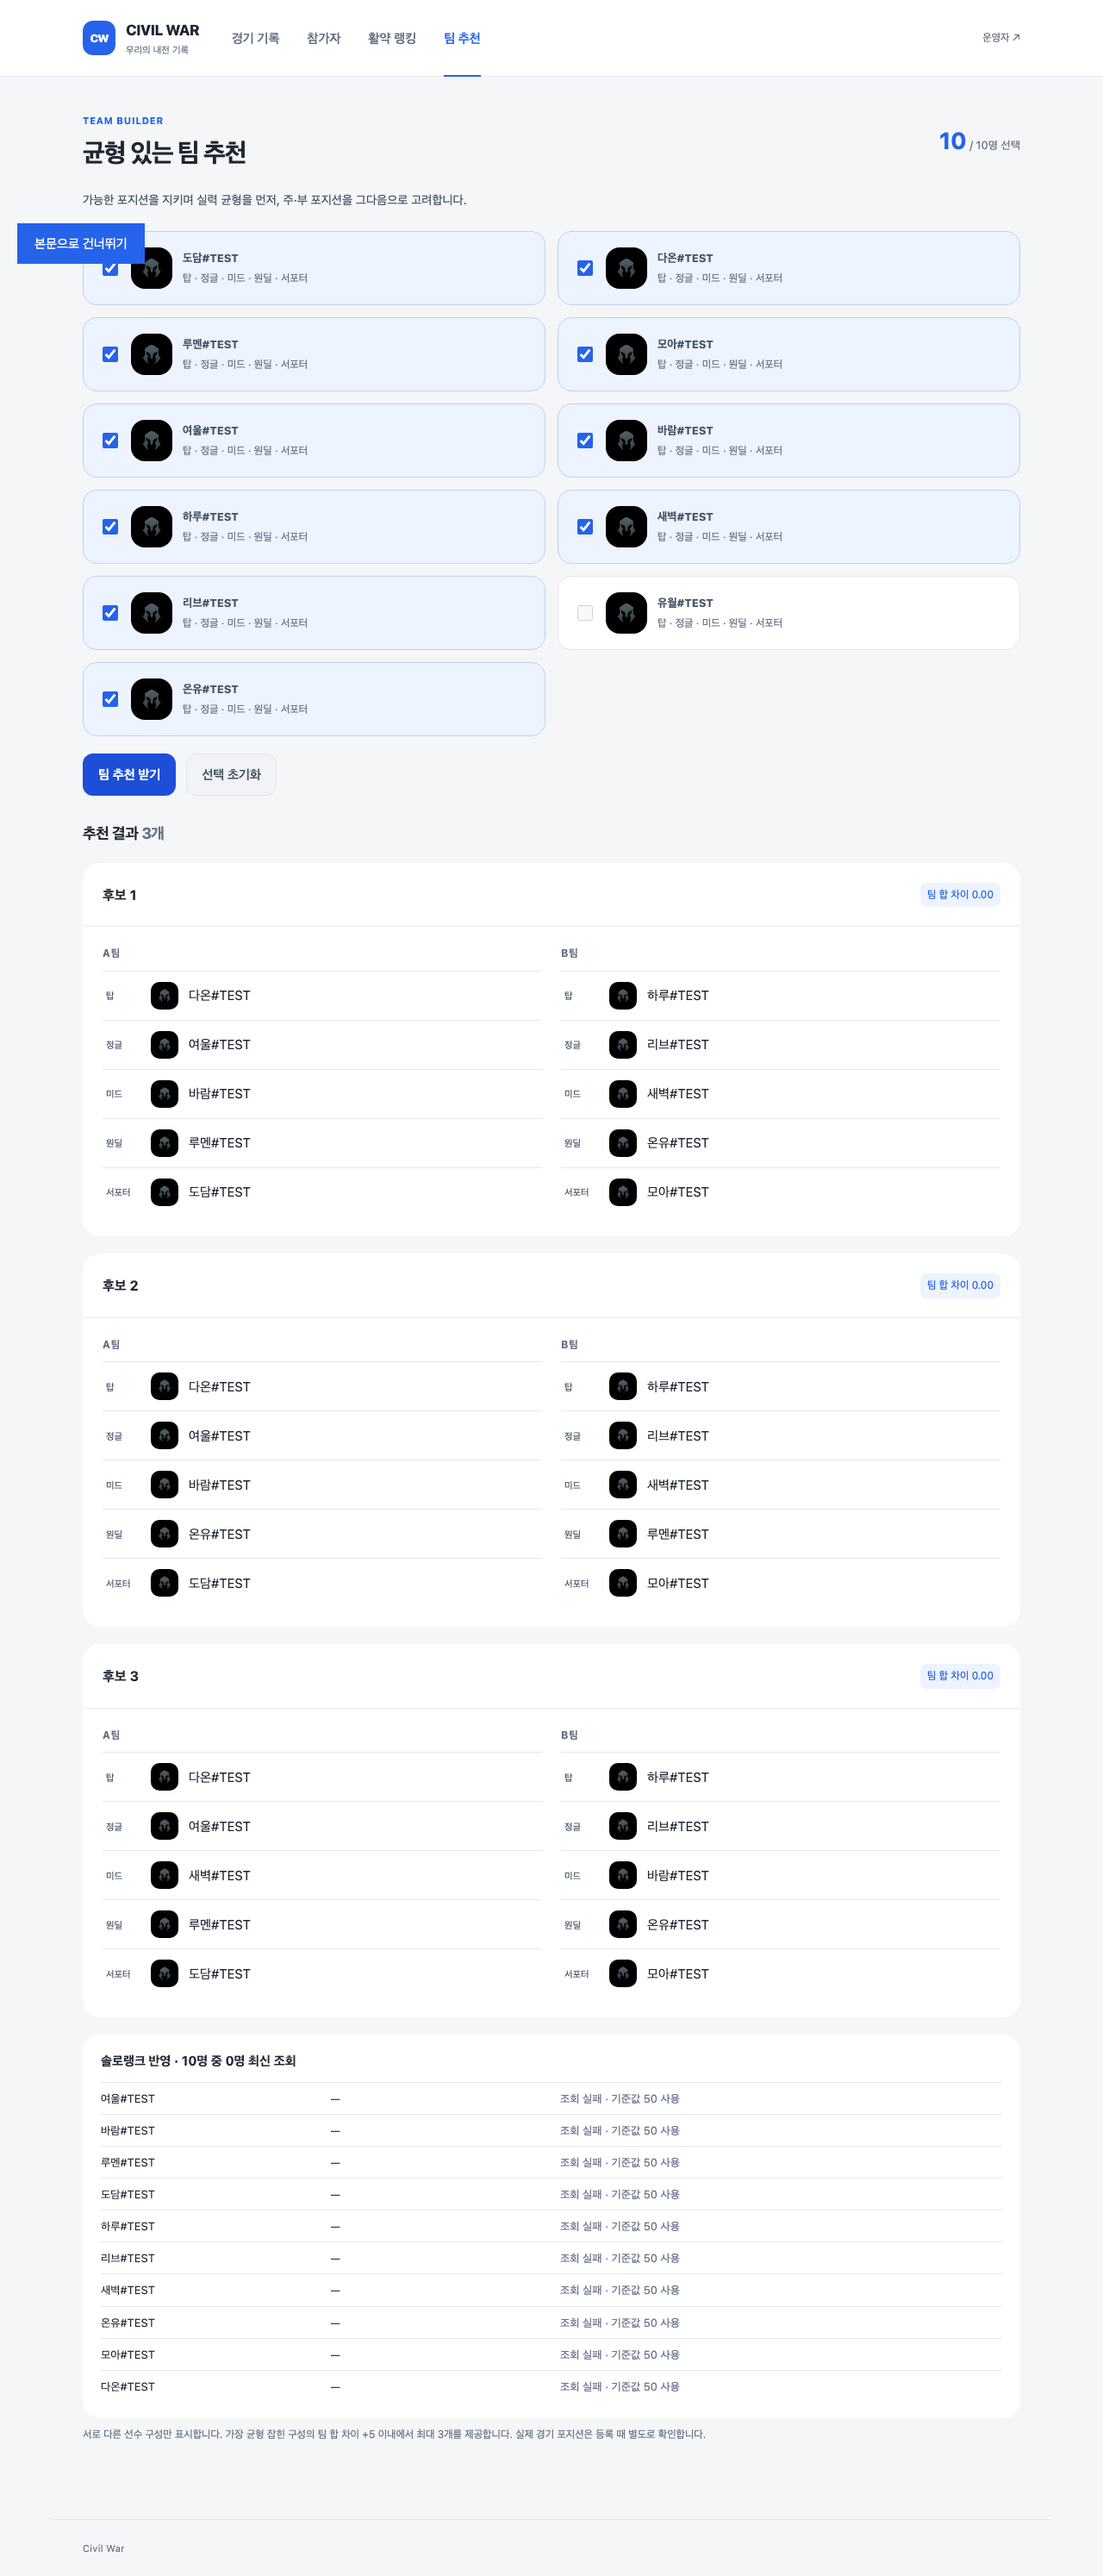
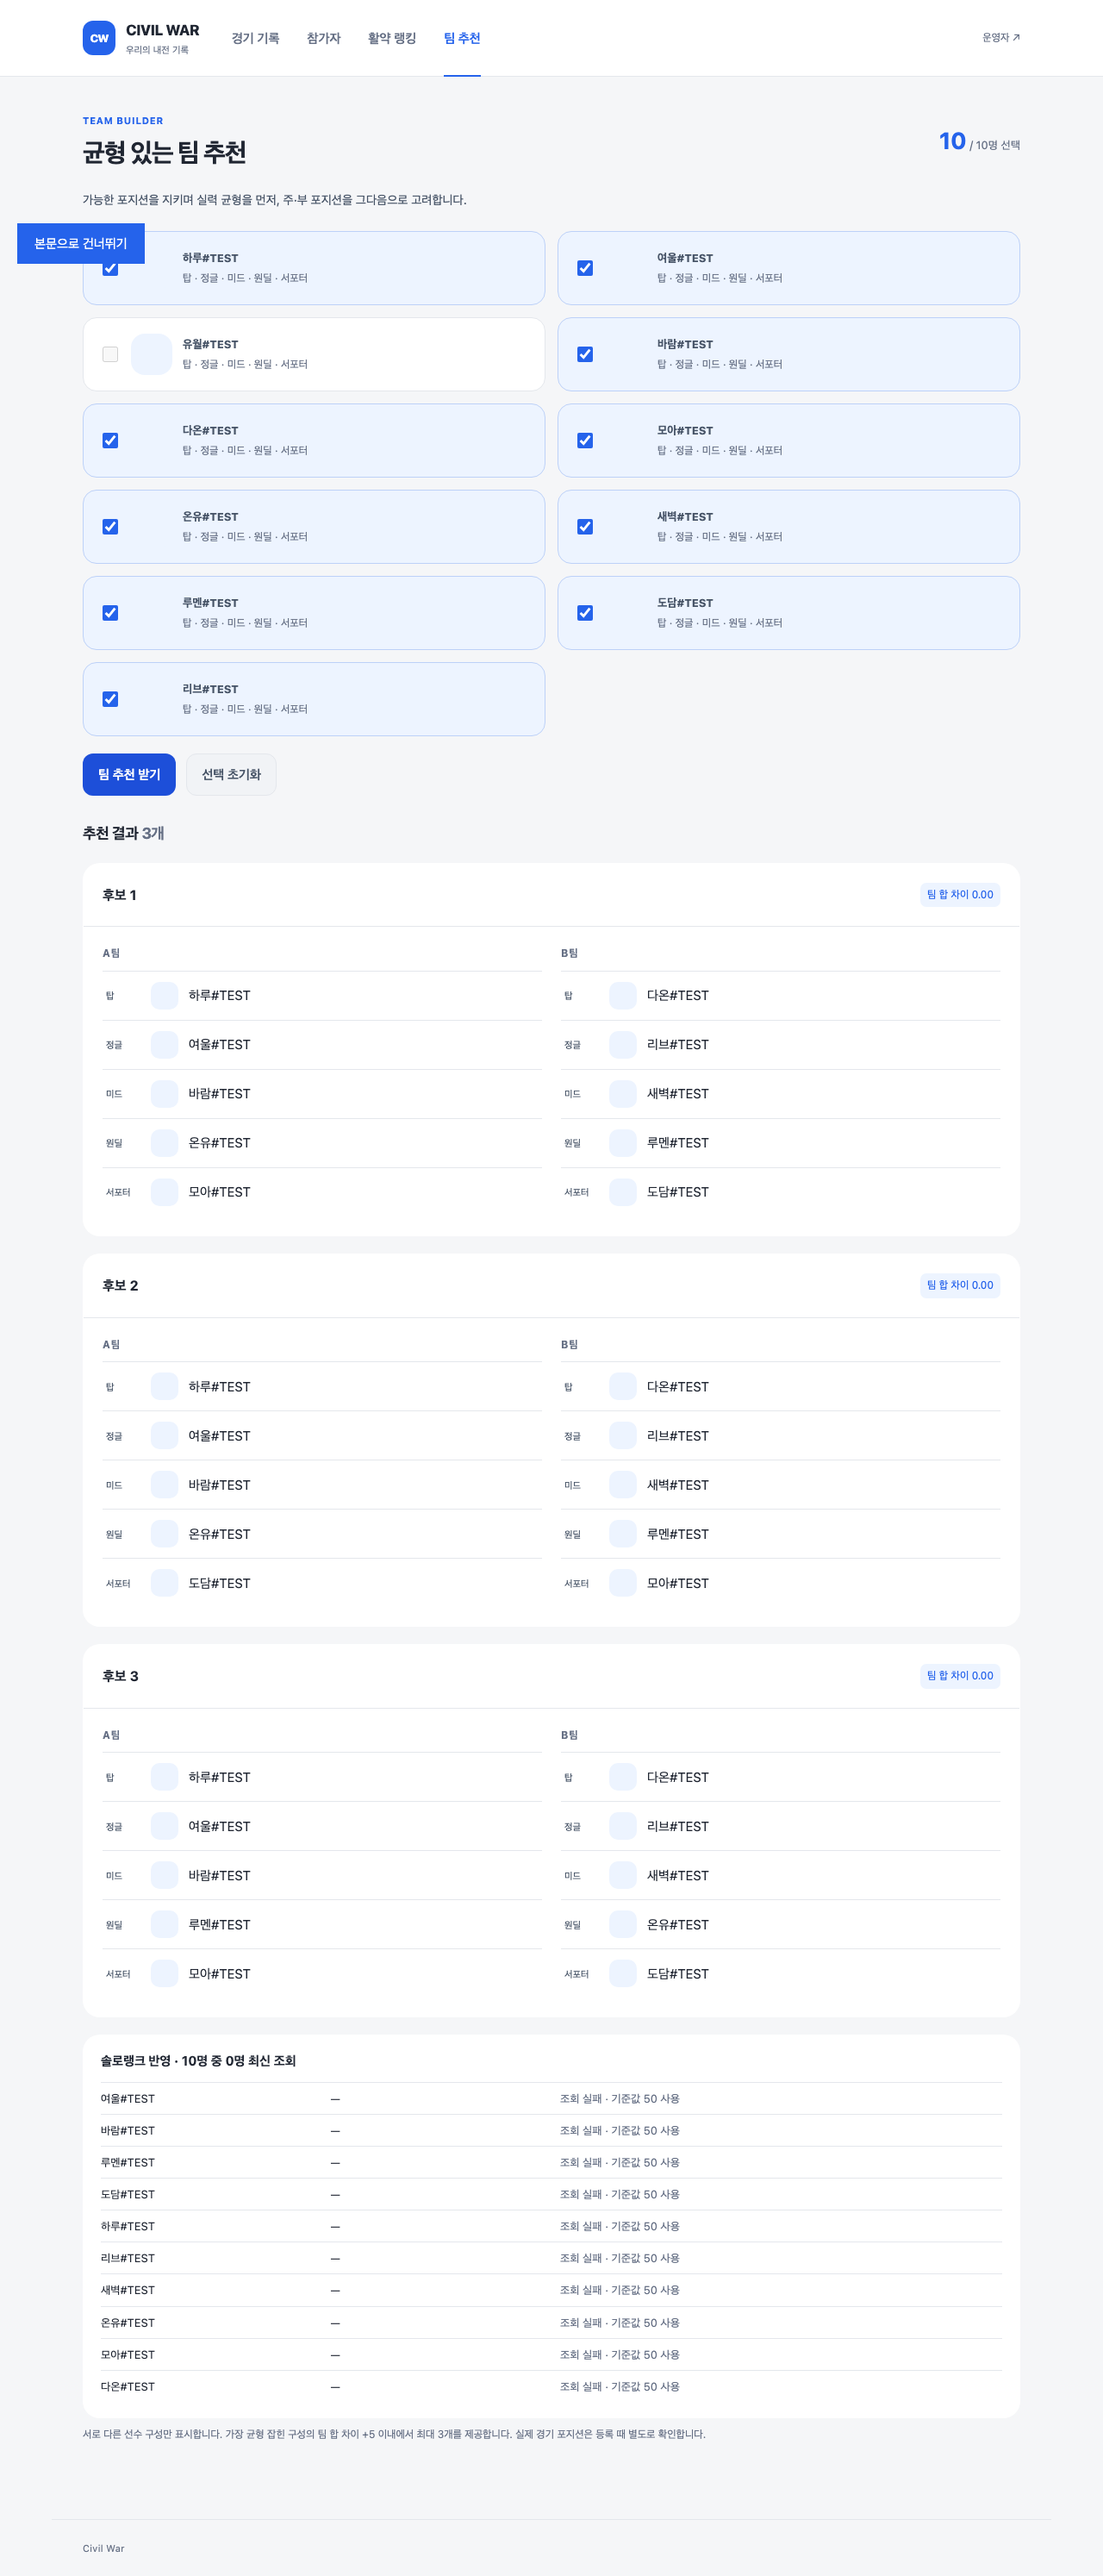
docs: 최종 검토에 따른 계약·결정 연결·검증 근거 수정

diff --git a/docs/contracts/api.md b/docs/contracts/api.md
@@ -204,7 +204,7 @@ PublicMatch에는 `matchKey`, `startedAtUtc`, `durationSeconds`, `mapId`, `patch
 | `POST /api/teams/recommend` | [TeamInput](stage3.schema.json#/$defs/TeamInput) `{memberIds:string[10]}` → `{candidates:[{teamA:[{memberId,role}],teamB:[{memberId,role}],skillDifference}],reason:null|string,sourceRevision,rankLookups:RankLookup[10]}` |
 | `GET /api/scoring-versions/:id` | 공개 점수에 쓴 변경 불가능한 전체 [ScoringRuleSet](stage3.schema.json#/$defs/ScoringRuleSet). 알 수 없는 버전은 404 |
 
-팀 추천은 응답 전에 선택한 10명의 솔로랭크를 조회한다. [RankLookup](stage3.schema.json#/$defs/RankLookup)은 `{memberId,source,status,teamSeed,tier,division,observedAt}`이다. `source`는 이번 계산에 쓴 값의 출처로 `live`(이번 조회 성공), `saved`(이번 조회 실패, 마지막 성공값), `default`(성공한 적 없음, 공통 시작값)다. `status`는 이번 조회 결과로 `ranked`·`unranked`·`unavailable`·`not_found`·`conflict`·`timeout`(대기 상한 초과) 중 하나다. 상한을 넘긴 조회는 저장하지 않는다. 조회 일부가 실패해도 추천은 200으로 응답한다.
+팀 추천은 응답 전에 선택한 10명의 솔로랭크를 조회한다. [RankLookup](stage3.schema.json#/$defs/RankLookup)은 `{memberId,source,status,teamSeed,tier,division,observedAt}`이다. `source`는 이번 계산에 쓴 값의 출처로 `live`(이번 조회 성공), `saved`(이번 조회 실패, 마지막 성공값), `default`(성공한 적 없음, 공통 시작값)다. `status`는 이번 조회 결과로 `ranked`·`unranked`·`unavailable`·`not_found`·`conflict`·`timeout`(대기 상한 초과) 중 하나다. 상한 안에 끝난 조회만 응답 전에 한 트랜잭션으로 저장하고, 상한을 넘긴 조회는 저장하지 않는다. 포지션별 실력은 저장하지 않고 요청마다 계산한다. 조회 일부가 실패해도 추천은 200으로 응답한다.
 
 현재 세대가 없으면 순위·회원 통계·팀 추천은 202 `RECALCULATING`을 반환한다. 이때 팀 추천은 Riot 조회를 하지 않는다. 이는 경기 기록을 200으로 읽는 동작과 구분한다.
 
@@ -233,7 +233,7 @@ ScoringRuleSet의 필드·숫자 상수는 [현재 스키마](stage3.schema.json
 
 공개 계산 조회는 `REPEATABLE READ`(읽기 트랜잭션 동안 같은 데이터 상태를 보는 격리 수준)로 서비스 상태를 읽고 revision·scoringVersion이 모두 같은 세대만 허용한다. 이미 시작된 조회는 일관된 이전 스냅샷(그 시점의 데이터 묶음)을 볼 수 있고, 변경 커밋 뒤 시작한 조회는 무효화를 본다.
 
-작업자는 PostgreSQL의 세션 단위 협력 잠금 `731954801`을 점유 → 스냅샷 → 계산 → 게시 전체 동안 유지한다. 입력 스냅샷도 REPEATABLE READ로 읽고 실제 계산은 그 트랜잭션 밖에서 한다. 최종 게시 트랜잭션은 서비스 상태를 잠근 뒤 revision·desired 버전·running 상태·정확한 attempts(점유 시도 번호)를 확인한다. 일치할 때만 모든 gameScores·memberStats·roleSkills를 함께 저장하고 활성 포인터를 바꾼다. 오래된 입력은 게시하지 않고 stale로 처리한다.
+작업자는 PostgreSQL의 세션 단위 협력 잠금 `731954801`을 점유 → 스냅샷 → 계산 → 게시 전체 동안 유지한다. 입력 스냅샷도 REPEATABLE READ로 읽고 실제 계산은 그 트랜잭션 밖에서 한다. 최종 게시 트랜잭션은 서비스 상태를 잠근 뒤 revision·desired 버전·running 상태·정확한 attempts(점유 시도 번호)를 확인한다. 일치할 때만 모든 gameScores·memberStats를 함께 저장하고 활성 포인터를 바꾼다. 오래된 입력은 게시하지 않고 stale로 처리한다.
 
 복구는 attempts를 올려 이전 작업자의 게시·실패 보고가 새 작업을 덮어쓰지 못하게 한다. 중단된 running 작업은 협력 잠금을 얻은 뒤 복구한다. 실패 작업은 웹 프로세스 재시작 또는 명시적인 retry로 재처리한다. 웹 기능을 끈 유지보수 프로세스는 스케줄러나 작업 복구를 시작하지 않는다. 제거한 `admin:code` 명령은 서버·DB를 시작하기 전에 실패한다. 상세 근거는 [작업 점유·실패 처리](../../apps/server/src/main/java/cw/evaluation/EvaluationRepository.java), [게시 검사](../../apps/server/src/main/java/cw/evaluation/GenerationPublisher.java)에 있다.
 

diff --git a/docs/validation/2026-11-25-team-live-solo-rank-report.md b/docs/validation/2026-11-25-team-live-solo-rank-report.md
@@ -17,6 +17,7 @@
 | 등급 조회 시점 | 서버가 1초마다 한 명씩 조회. 성공 후 24시간, 실패 후 5분 동안 재조회하지 않음 | 팀 추천 요청 때 선택한 10명을 동시에 조회 |
 | Riot 요청 | 서버 전체에서 한 번에 하나씩, 요청당 5초 제한 | 서버 전체 동시 10개까지, 요청당 4초 제한 |
 | 늦은 조회 | 해당 없음 | 4초 상한이 지나면 취소하고 저장하지 않음. 마지막 성공값 또는 50을 쓰고 `timeout`으로 표시 |
+| 조회 결과 저장 | 사람마다 각자 전역 잠금을 잡고 저장 | 작업 스레드는 Riot만 호출하고, 상한 안에 끝난 결과를 요청 스레드가 한 트랜잭션·한 번의 잠금으로 저장 |
 | 포지션별 실력 계산 | 재계산 때 저장된 등급으로 미리 계산 | 추천 요청 때 이번 조회 결과로 계산 |
 | 등급 변화 | 재계산 번호를 올려 공개 평가 전체를 다시 계산 | 재계산하지 않음. 감사 기록만 남김 |
 | 추천 응답·화면 | 후보만 표시 | 사람별 반영 상태(`rankLookups`)와 "솔로랭크 반영" 목록 표시 |
@@ -30,10 +31,10 @@ macOS arm64, OpenJDK 25.0.1(Gradle 도구 체인과 웹 시험의 `JAVA_HOME`), 
 
 | 환경·검사 | 결과 |
 | --- | --- |
-| `./apps/server/gradlew -p apps/server clean build` | 통과. JUnit 시험 사례 189개(33개 클래스), 실패·오류·건너뜀 0 |
+| `./apps/server/gradlew -p apps/server clean build` | 통과. JUnit 시험 사례 191개(33개 클래스), 실패·오류·건너뜀 0. 최종 검토 수정 후 다시 실행한 값 |
 | `pnpm typecheck` | 통과 |
 | `pnpm test` | 통과. Vitest 8개 파일, 89개 사례 |
-| `pnpm test:web` | 통과. Playwright 23개 사례 |
+| `pnpm test:web` | 통과. Playwright 23개 사례. 최종 검토 수정 후 세 번 실행했고, 첫 실행에서 `light-ui.spec.ts`의 사진 시험 1건이 실패했다. 앞선 시험이 일으킨 재계산이 끝나기 전에 팀 추천을 눌러 202 "계산 중"을 받은 경우로, 이어진 두 번은 모두 통과했다 |
 | `pnpm format:check`, `pnpm format:java:check` | 통과 |
 
 ## 확인한 동작
@@ -47,7 +48,9 @@ macOS arm64, OpenJDK 25.0.1(Gradle 도구 체인과 웹 시험의 `JAVA_HOME`), 
 | 자리 기다리던 요청이 취소됨 | 0.5초 안에 실패로 반환 | `HttpRiotGatewayTest.interruptedWaitForPermitReturnsUnavailable` |
 | 조회 성공·실패·첫 실패·등급 없음 | 각각 `live`·`saved`(시드 90 유지)·`default`(50)·`live`(50) | `LiveRankLookupIntegrationTest` 4개 사례 |
 | 한 명만 2초 지연, 상한 300ms | 1초 안에 응답, 그 사람만 `timeout`·`default`, 2.5초 뒤에도 결과 저장 안 됨 | `LiveRankLookupIntegrationTest.memberPastDeadlineTimesOutAndIsNotSaved` |
-| Riot 키 없음 | 10명 모두 `default`, 2초 안에 응답 | `LiveRankLookupIntegrationTest.blankKeyFinishesWithoutWaitingForTheDeadline` |
+| Riot 키 없음 | 10명 모두 기준값 50 사용으로 표시 | 키 없이 실행하는 웹 시험 `tests/web/team-sparse-history.spec.ts`. 단위 시험 `LiveRankLookupIntegrationTest.blankKeyFinishesWithoutWaitingForTheDeadline`은 Riot 대역이 빈 응답을 줄 때 상한을 기다리지 않음만 확인한다 |
+| 다른 작업이 전역 DB 잠금을 1초 잡은 동안 상한 300ms 조회 | Riot 조회가 제때 끝났으면 10명 모두 `live`로 저장 | `LiveRankLookupIntegrationTest.databaseLockDoesNotTurnFinishedRiotLookupsIntoTimeouts` |
+| 취소를 무시하고 상한 뒤에 끝난 Riot 응답 | `timeout`으로 표시되고 저장되지 않음 | `LiveRankLookupIntegrationTest.riotResultArrivingAfterDeadlineIsNeverSaved` |
 | 한 명의 조회 코드가 예외 | 그 사람만 `unavailable`, 나머지 정상 | `LiveRankLookupIntegrationTest.exceptionForOneMemberOnlyAffectsThatMember` |
 | 같은 10명 추천 두 건 동시 | 둘 다 10명 결과 | `LiveRankLookupIntegrationTest.concurrentLookupsForSameMembersBothSucceed` |
 | 등급이 다이아몬드 I → 아이언 IV로 바뀜 | 다음 추천의 시드 90 → 0, 재계산 번호·작업 수 변화 없음 | `TeamApiIntegrationTest.freshRankChangesRecommendationWithoutRecalculation` |

diff --git a/docs/superpowers/decisions/2026-10-28-ux-requirements.md b/docs/superpowers/decisions/2026-10-28-ux-requirements.md
@@ -1,6 +1,6 @@
 # 참가자 등록과 수집기 사용 흐름 변경 결정
 
-기록일: 2026-10-28. 편집·보완일: 2026-10-29. 이 대화에서 사용자가 고른 방향과 계획 작성자의 기술 제안을 구분해 보존한다. 현재 제품 규칙의 상세 정본은 [제품 명세](../../spec.md)이며 이 기록이 구현 완료를 뜻하지 않는다.
+기록일: 2026-10-28. 편집·보완일: 2026-11-25. 이 대화에서 사용자가 고른 방향과 계획 작성자의 기술 제안을 구분해 보존한다. 현재 제품 규칙의 상세 정본은 [제품 명세](../../spec.md)이며 이 기록이 구현 완료를 뜻하지 않는다.
 
 | 분류·주체 | 상태 | 지금 판단할 사항 |
 | --- | --- | --- |
@@ -51,6 +51,8 @@
 수치 환산은 아직 사용자가 확정하지 않은 계획자의 임시 정책이다. 0–100 시작 척도에 대해 아이언 IV부터 다이아몬드 I까지 28개 구간을 낮은 순으로 0–27, 마스터·그랜드마스터·챌린저를 28–30으로 두고 `round(100 × 구간 / 30)`을 사용한다. 리그 포인트(LP)는 첫 버전에 넣지 않는다. 이 식은 실제 실력 차이를 측정한 결과나 Riot의 비공개 실력값 추정이 아니다. 등급 순서를 보존하는 단순한 팀 편성 시작값이다.
 
 장점은 수동 평가를 없애고 구현·설명을 단순화하는 것이다. 비용은 같은 등급 안의 LP 차이와 등급 간 실제 격차를 반영하지 못한다는 점이다. 내전 누적과 기존 보정 강도가 오차를 줄이지만 정확성을 보장하지 않는다. 소규모 모임에서 균형 문제가 확인되거나 등급 체계가 바뀌면 환산 규칙 버전을 새로 만들고 재계산한다. 운영자의 과거 입력값은 감사·백업용으로 보존하되 새 계산의 우회 입력으로 쓰지 않는다.
+
+2026-11-25 보완: 등급 갱신 시점(최초 등록 때 요청, 성공 후 24시간 재조회)은 사용자 결정으로 "팀 추천 요청 때 선택한 10명을 조회"로 바뀌었다. 환산식과 중간값 50은 그대로다. 결정 이유와 대안 비교는 [팀 추천 시점 솔로랭크 조회 설계](../specs/2026-11-25-team-live-solo-rank-design.md)에 있다.
 
 ## P05 — 보수적인 포지션 제안
 
